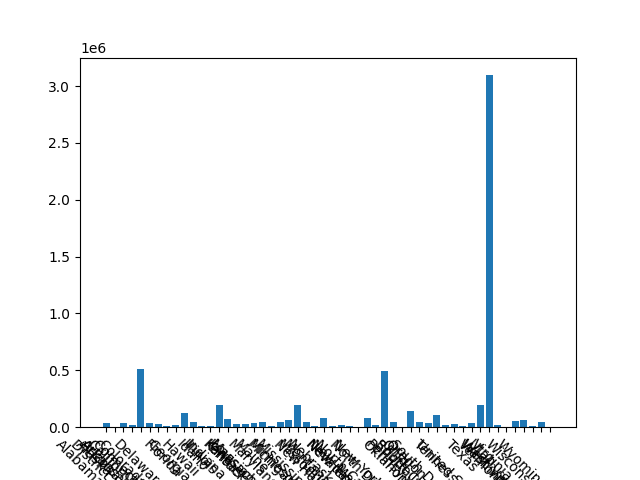
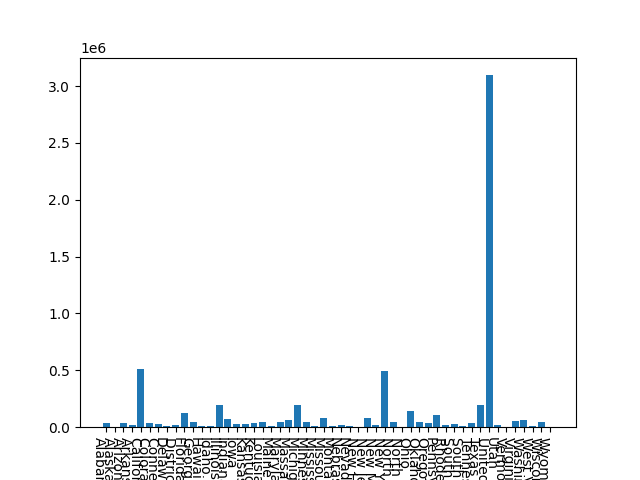
heheheh

Changed region(s): [[0.0938, 0.9062, 0.875, 1.0]]

diff --git a/static/styles/style.css b/static/styles/style.css
@@ -52,8 +52,8 @@
   
   .col-75 {
     
-    width: 75%;
-    margin-top: 6px;
+    width: 100%;
+    margin-top: 50px;
   }
   
   /* Clear floats after the columns */

diff --git a/mat.py b/mat.py
@@ -17,5 +17,5 @@ def plotit():
     state = list(crimes.keys())
     total = list(crimes.values())
     plt.bar(range(len(crimes)), total, tick_label=state)
-    plt.xticks(rotation=-45, ha='right')
+    plt.xticks(rotation=-90, ha='right')
     plt.savefig('graph.png')
